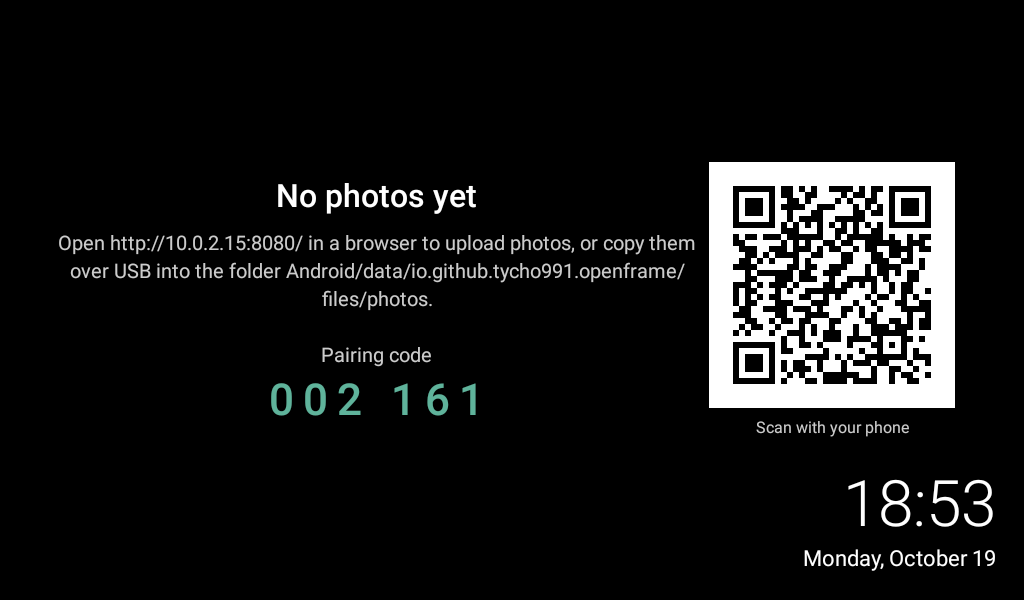
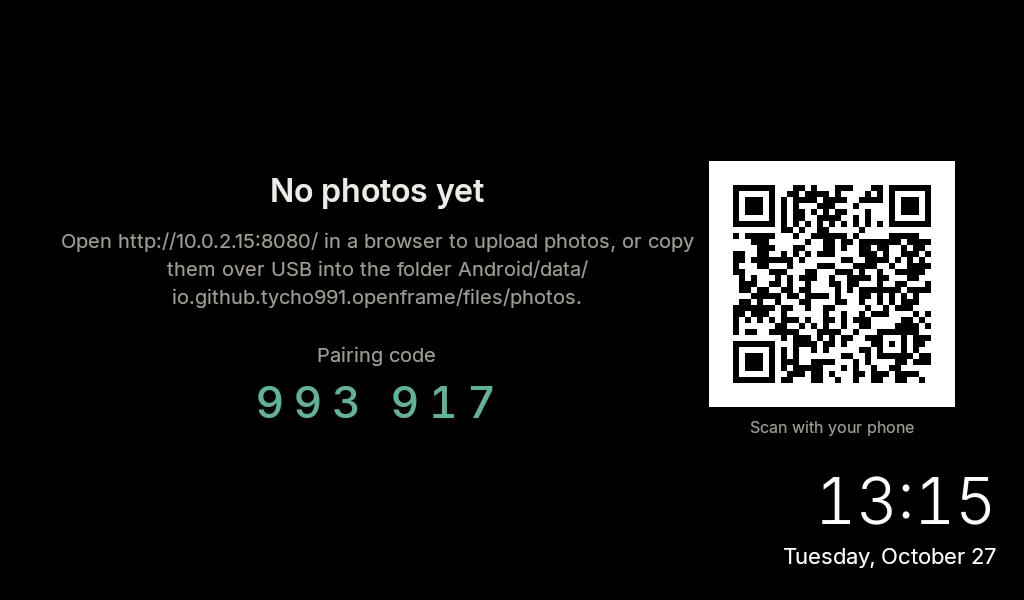
design-system: emulator screenshots with Inter and the token colours, landscape and portrait (tasks 3.1, 3.4)

diff --git a/openspec/changes/design-system/tasks.md b/openspec/changes/design-system/tasks.md
@@ -13,10 +13,10 @@
 
 ## 3. The frame on the tokens
 
-- [ ] 3.1 `android/src/main/res/values/design_tokens.xml` with the `ds_*` colours (dark values) and dimensions the frame uses, `themes.xml`, `activity_display.xml` and `caption_lines.xml` referring only to `ds_*` and the frame-only `frame_*` values (background, panel, shadow, text over photos and the panel) per design decision 2; verify: `./gradlew :android:lint` without new warnings, and the emulator screenshots of 3.4 show the same colours as before except the empty state's texts in `ds_text` and `ds_muted` (the accent is unchanged)
+- [x] 3.1 `android/src/main/res/values/design_tokens.xml` with the `ds_*` colours (dark values) and dimensions the frame uses, `themes.xml`, `activity_display.xml` and `caption_lines.xml` referring only to `ds_*` and the frame-only `frame_*` values (background, panel, shadow, text over photos and the panel) per design decision 2; verify: `./gradlew :android:lint` without new warnings, and the emulator screenshots of 3.4 show the same colours as before except the empty state's texts in `ds_text` and `ds_muted` (the accent is unchanged)
 - [x] 3.2 `checkDesignTokens` in `android/build.gradle.kts` per design decision 3, wired into `check` and before `preBuild`; verify: `./gradlew :android:checkDesignTokens` passes; with a trial change of `ds_accent` it fails and names `accent`, and with a trial `ds_unknown` it fails and names the missing token (both reverted)
 - [x] 3.3 `FrameType` per design decision 5 (four typefaces from assets, cached, fallback to the style's `fontFamily` with a log line); `DisplayActivity` assigns them to the hint bar (name, address, code label, code, pause button), the empty state and the QR captions, `ClockOverlay` to time and date, `CaptionOverlay` to the caption line and the place; `setFontFeatureSettings("tnum")` on the clock time and both codes; verify: a Robolectric test loads all four typefaces from the assets, `ClockOverlayTest` checks the tabular figures on the time, and `./gradlew :android:check` passes
-- [ ] 3.4 Emulator screenshots at 1024 × 600 (160 dpi) and 1920 × 1200 (240 dpi), landscape and portrait, German and English, of slideshow with clock and caption, hint, locked hint and empty state, replacing those in `docs/screenshots/`; verify: in every screenshot the texts are in Inter, nothing is clipped or ellipsized except per the hint bar rule in design.md (Risks), and the QR codes still decode
+- [x] 3.4 Emulator screenshots at 1024 × 600 (160 dpi) and 1920 × 1200 (240 dpi), landscape and portrait, German and English, of slideshow with clock and caption, hint, locked hint and empty state, replacing those in `docs/screenshots/`; verify: in every screenshot the texts are in Inter, nothing is clipped or ellipsized except per the hint bar rule in design.md (Risks), and the QR codes still decode
 
 ## 4. App shell
 

diff --git a/docs/EMULATOR.md b/docs/EMULATOR.md
@@ -16,7 +16,8 @@ avdmanager create avd -n of37 -k "system-images;android-37.0;google_apis;x86_64"
 - **Panel size.** `wm size` only changes the logical size, `screencap` keeps the physical one. Set the real panel in
   `~/.android/avd/of21.avd/config.ini` instead: `hw.lcd.width=600`, `hw.lcd.height=1024`, `hw.lcd.density=160`
   for 1024×600, `1200`, `1920`, `240` for 1920×1200 (the natural orientation is portrait, the app runs in landscape,
-  so rotate screenshots by 90°).
+  so rotate screenshots by 90°). `skin.name` in the same file overrides `hw.lcd.*`; set it to the same size
+  (`600x1024` or `1200x1920`).
 - **API 37 needs a bigger data partition** (`disk.dataPartition.size=6G` in its `config.ini`, start once with
   `-wipe-data`) and crashes SurfaceFlinger in a loop without a GPU (`RegionSamplingThread`, started by the Google
   launcher). Disable the launcher right after the first boot:
